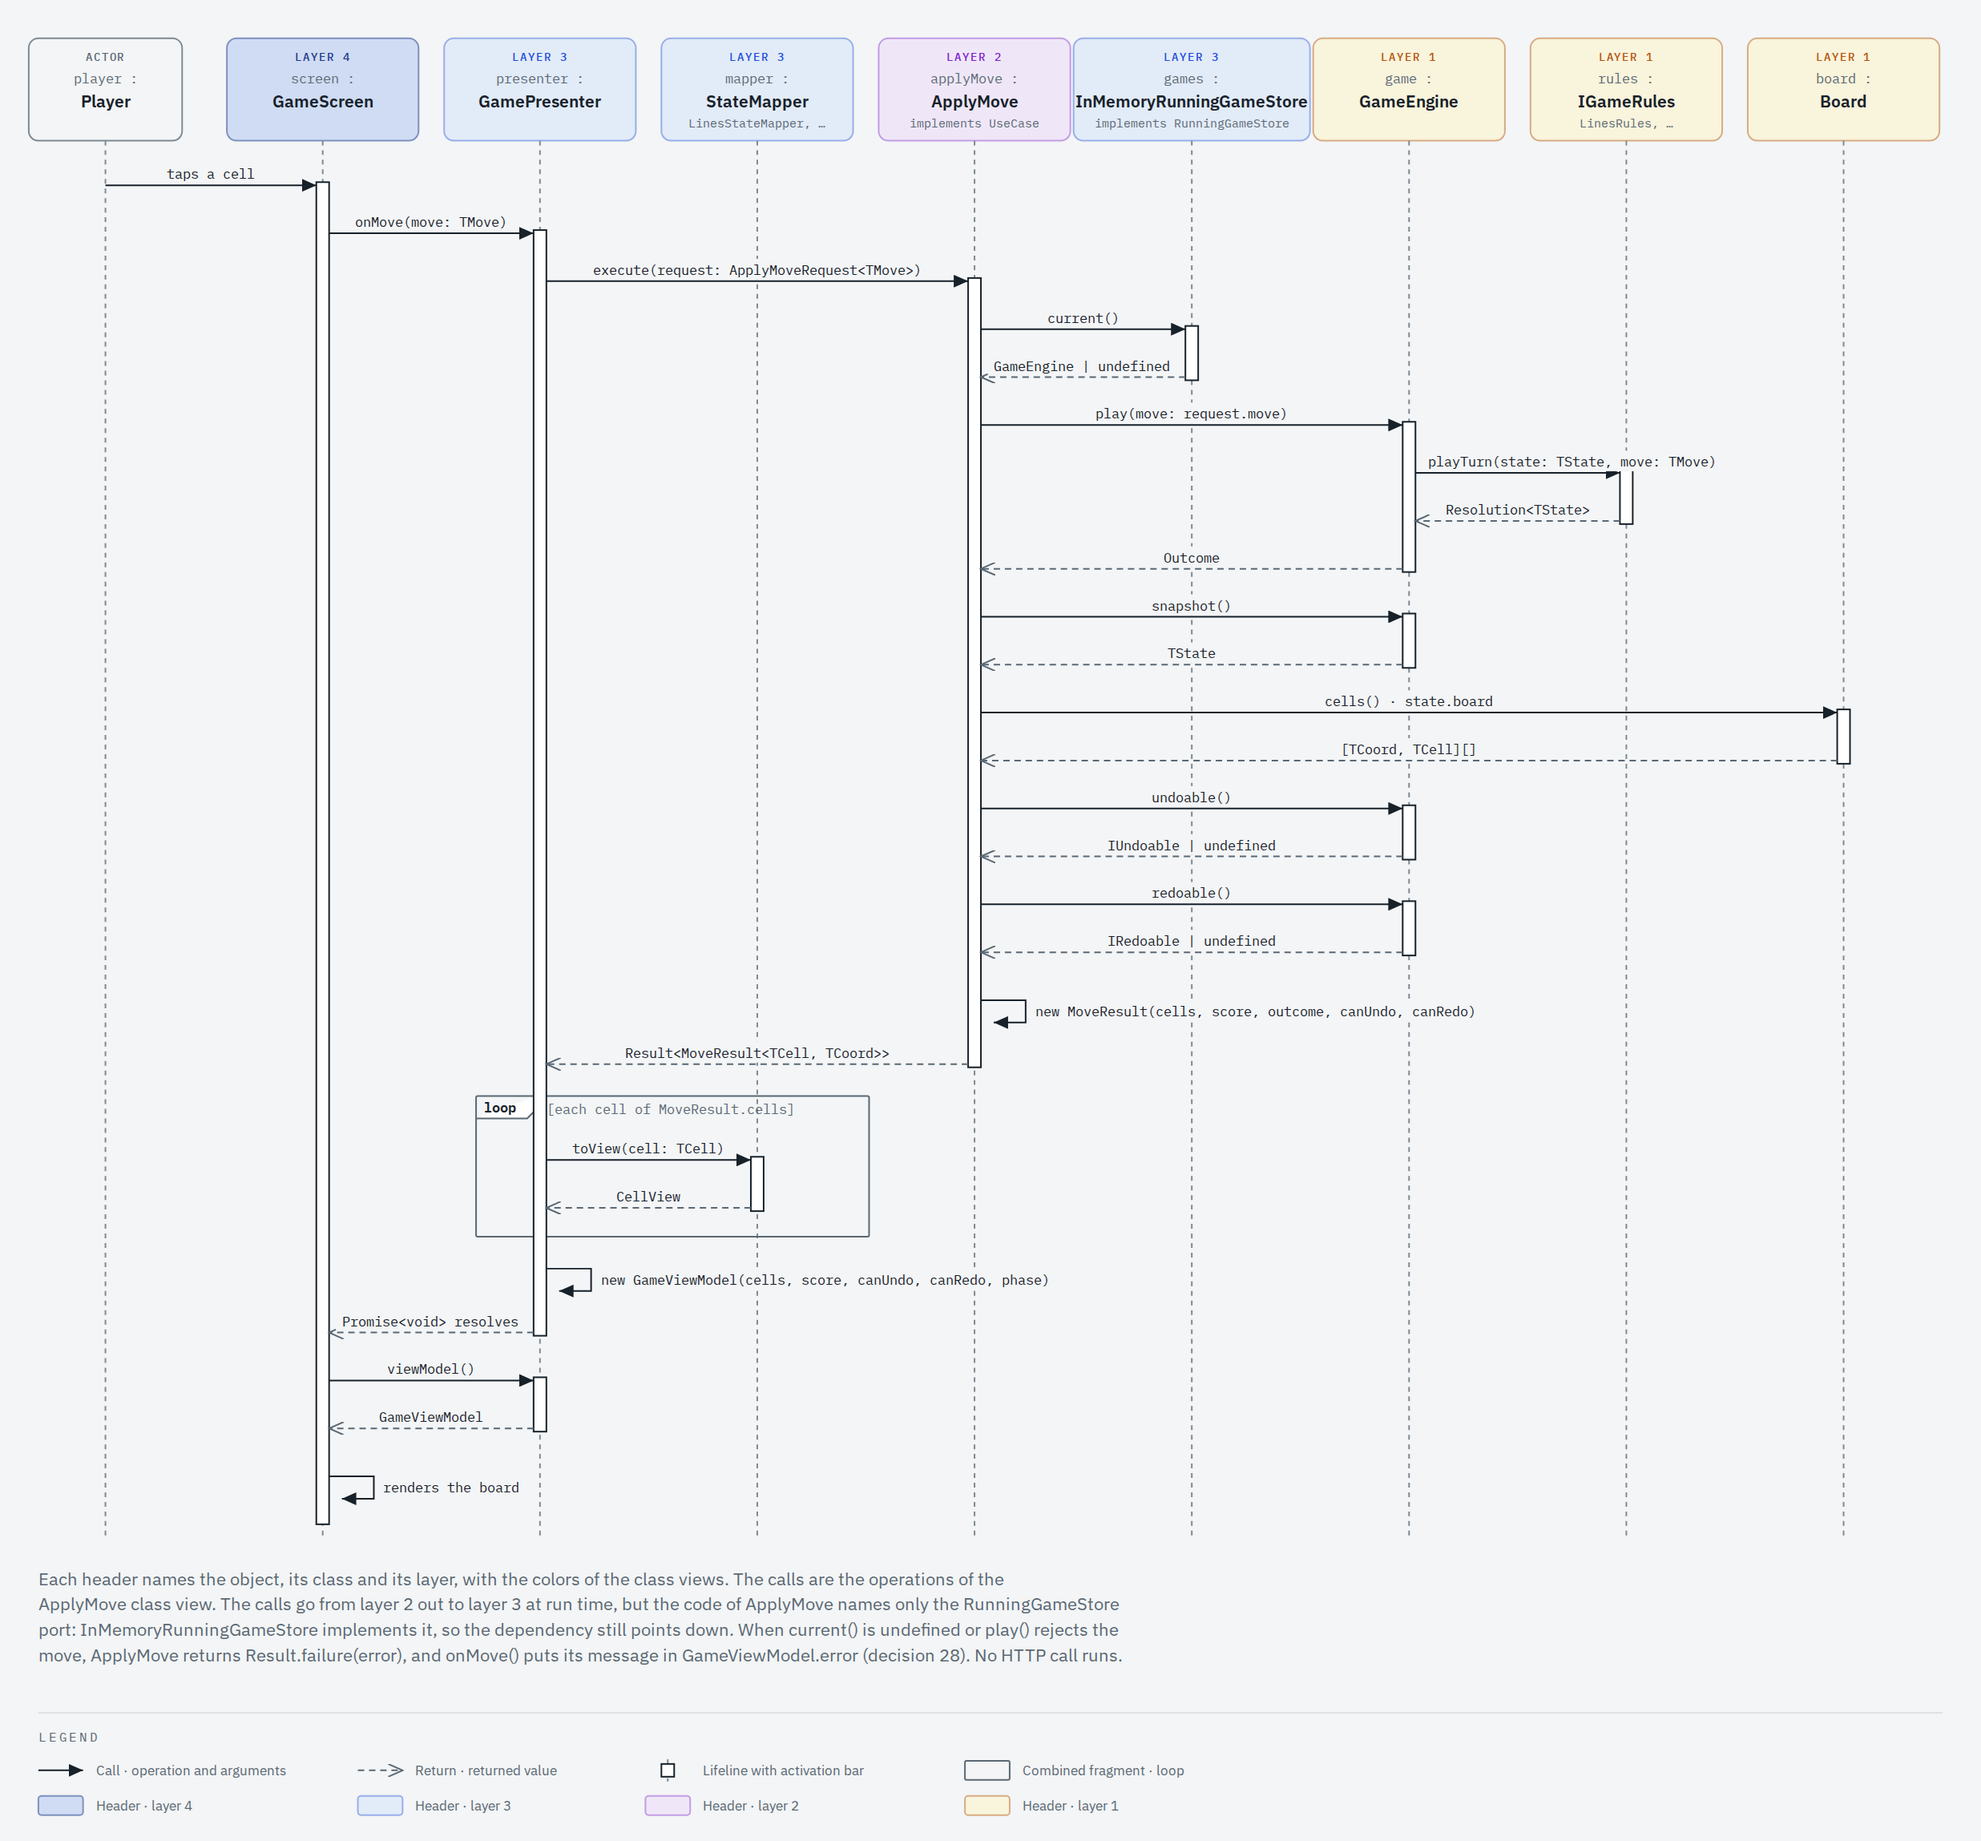
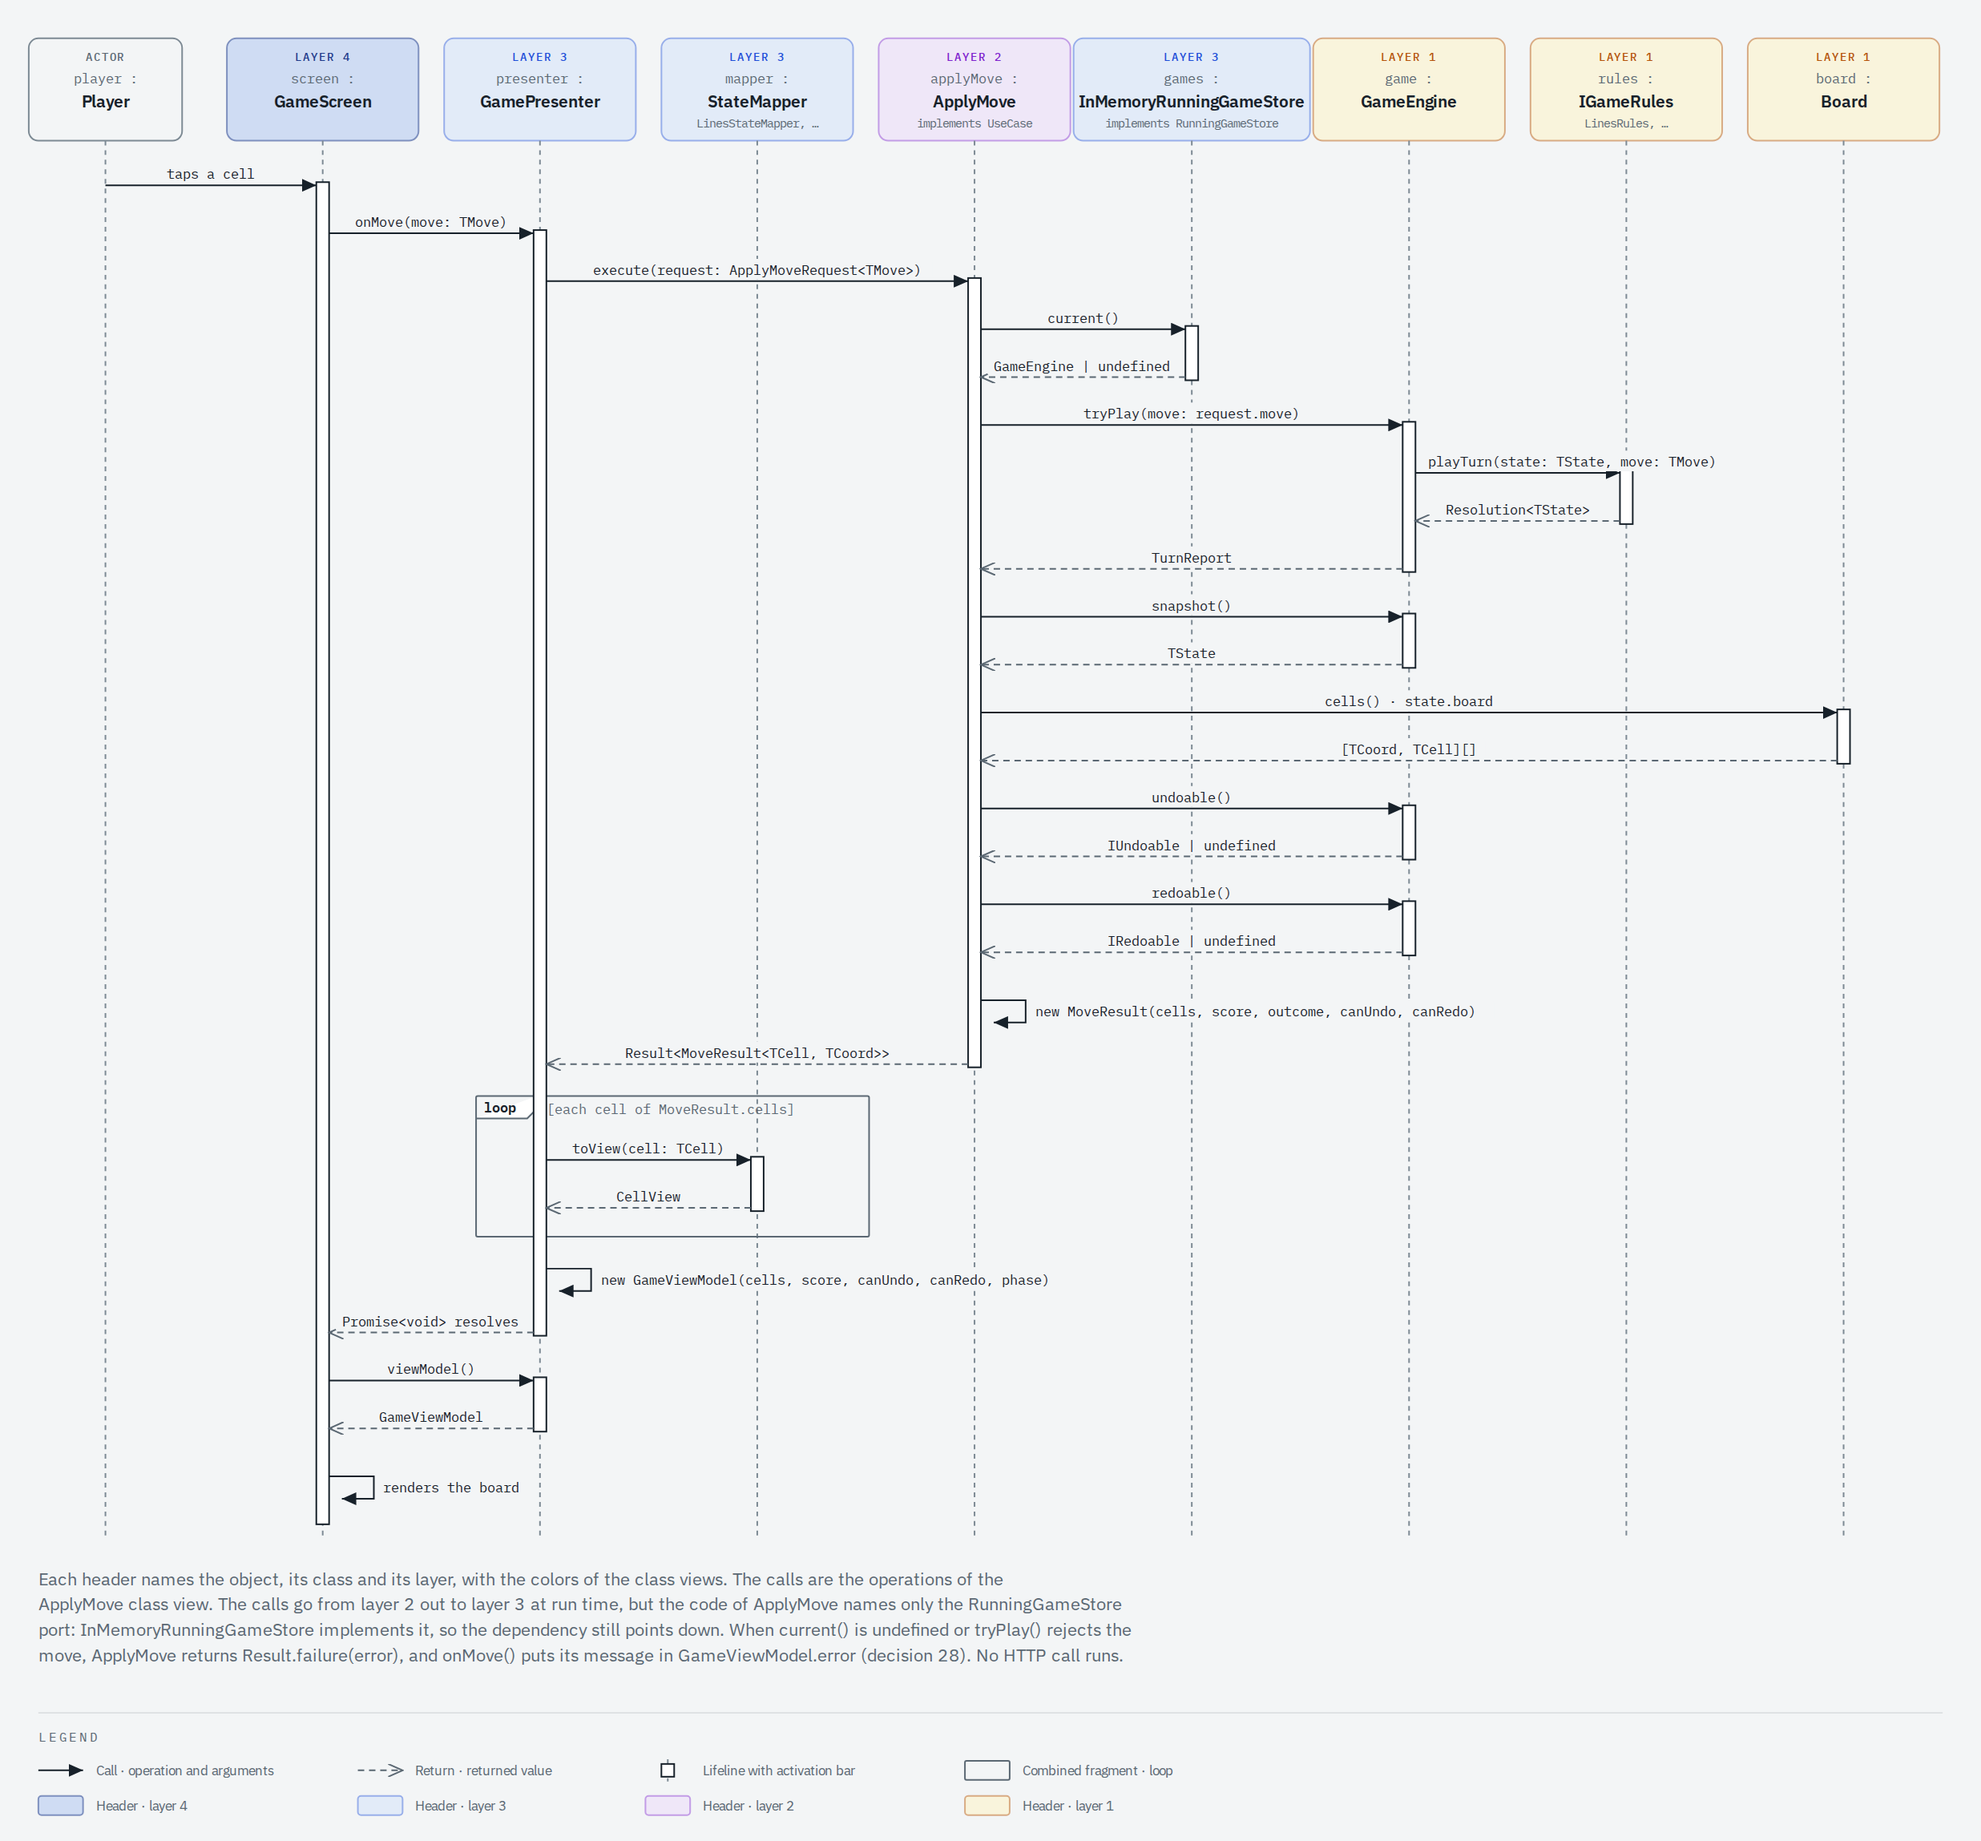
docs(architecture): show tryPlay() in the ApplyMove views
ApplyMove calls GameEngine.tryPlay(), not play(). The uc-2-game and
flow-1-apply-move class views and the seq-1-apply-move sequence view now
say so in labels, messages, comments, notes, captions and the GameEngine
member list; the sequence reply is TurnReport. The flows.md alt text says
the same, and the three PNG images are exported again.

Closes #139

diff --git a/docs/architecture/classes/views/flow-1-apply-move.html b/docs/architecture/classes/views/flow-1-apply-move.html
@@ -306,7 +306,7 @@
           stroke-width="1"
           marker-end="url(#flowmove-open)"
         />
-        <!-- ApplyMove calls GameEngine.play() and snapshot(): use, down from layer 2 to layer 1 -->
+        <!-- ApplyMove calls GameEngine.tryPlay() and snapshot(): use, down from layer 2 to layer 1 -->
         <path
           d="M600 820 V872 Q600 880 608 880 H692 Q700 880 700 888 V896"
           fill="none"
@@ -391,7 +391,7 @@
         >
           BUILDS
         </text>
-        <rect x="602" y="822" width="41.6" height="12" rx="2" fill="#efe7f8" />
+        <rect x="602" y="822" width="58.4" height="12" rx="2" fill="#efe7f8" />
         <text
           x="606"
           y="831"
@@ -401,7 +401,7 @@
           text-anchor="start"
           letter-spacing="0.06em"
         >
-          PLAY()
+          TRYPLAY()
         </text>
         <rect x="318" y="822" width="47.2" height="12" rx="2" fill="#efe7f8" />
         <text
@@ -1044,7 +1044,7 @@
           font-size="9"
           font-family="'IBM Plex Mono', monospace"
         >
-          + play(move: TMove): Outcome
+          + tryPlay(move: TMove): TurnReport
         </text>
         <text
           x="696"
@@ -1343,7 +1343,7 @@
           font-size="11"
           font-family="'IBM Plex Sans', sans-serif"
         >
-          GameEngine from RunningGameStore, calls play() and snapshot(), and copies the cells of
+          GameEngine from RunningGameStore, calls tryPlay() and snapshot(), and copies the cells of
           Board into a MoveResult (decision 29).
         </text>
         <text

diff --git a/docs/architecture/flows/views/seq-1-apply-move.html b/docs/architecture/flows/views/seq-1-apply-move.html
@@ -879,7 +879,7 @@
           stroke-width="1"
           marker-end="url(#seqmove-call)"
         />
-        <rect x="680.2" y="252" width="131.6" height="13" rx="2" fill="#f3f5f6" />
+        <rect x="672.45" y="252" width="147.1" height="13" rx="2" fill="#f3f5f6" />
         <text
           x="746"
           y="262"
@@ -888,7 +888,7 @@
           font-family="'IBM Plex Mono', monospace"
           text-anchor="middle"
         >
-          play(move: request.move)
+          tryPlay(move: request.move)
         </text>
         <!-- Message: game calls rules -->
         <line
@@ -944,7 +944,7 @@
           stroke-dasharray="4,3"
           marker-end="url(#seqmove-reply)"
         />
-        <rect x="723.975" y="342" width="44.05" height="13" rx="2" fill="#f3f5f6" />
+        <rect x="716.25" y="342" width="59.5" height="13" rx="2" fill="#f3f5f6" />
         <text
           x="746"
           y="352"
@@ -953,7 +953,7 @@
           font-family="'IBM Plex Mono', monospace"
           text-anchor="middle"
         >
-          Outcome
+          TurnReport
         </text>
         <!-- Message: apply calls game -->
         <line
@@ -1343,7 +1343,7 @@
           font-family="'IBM Plex Sans', sans-serif"
         >
           port: InMemoryRunningGameStore implements it, so the dependency still points down. When
-          current() is undefined or play() rejects the
+          current() is undefined or tryPlay() rejects the
         </text>
         <text
           x="24"

diff --git a/docs/architecture/classes/views/uc-2-game.html b/docs/architecture/classes/views/uc-2-game.html
@@ -270,7 +270,7 @@
           stroke-width="1"
           marker-end="url(#ucgame-open)"
         />
-        <!-- ApplyMove calls GameEngine.play(): use -->
+        <!-- ApplyMove calls GameEngine.tryPlay(): use -->
         <path
           d="M688 812 V900 Q688 908 680 908 H424"
           fill="none"
@@ -300,7 +300,7 @@
         >
           STORES
         </text>
-        <rect x="516" y="890" width="40" height="12" rx="2" fill="#f9f4dc" />
+        <rect x="506" y="890" width="60" height="12" rx="2" fill="#f9f4dc" />
         <text
           x="536"
           y="899"
@@ -310,7 +310,7 @@
           text-anchor="middle"
           letter-spacing="0.06em"
         >
-          PLAY()
+          TRYPLAY()
         </text>
 
         <!-- Role names and multiplicities at the part end -->
@@ -867,7 +867,7 @@
           font-family="'IBM Plex Sans', sans-serif"
         >
           StartGame never names a variant: the composition root injects the factory of the chosen
-          game. ApplyMove calls GameEngine.play(),
+          game. ApplyMove calls GameEngine.tryPlay(),
         </text>
         <text
           x="24"

diff --git a/CHANGELOG.md b/CHANGELOG.md
@@ -41,6 +41,7 @@ Each sprint of [`docs/ROADMAP.md`](docs/ROADMAP.md) closes with a version sectio
 
 - `sortStars()` checks its move count ([#137](https://github.com/Hexablock-Suite/hexablock-app/issues/137), gap G110.1). Every comparison with `NaN` is false, so `moves: NaN` won every Sort star. The check of `fitStars()` moves to `checkMoveCount()` in `src/domain/engine/move-count.ts`, and both star functions call it: a move count that is not a safe integer of 0 or more throws `RangeError("A move count needs a whole number of 0 or more, not <moves>.")`. The thresholds stay unchecked here: that check belongs to the level builders (#49). D22 in `docs/REQUIREMENTS.md`, decision 36 of `docs/architecture/classes.md` and the README say the same.
 - `caughtError()` never throws ([#138](https://github.com/Hexablock-Suite/hexablock-app/issues/138)). `String()` throws a `TypeError` for a thrown value without a prototype, such as `Object.create(null)`, or with a `toString` that throws, so the use case error kept that `TypeError` as its cause. Such a value now gets the fixed message «The thrown value has no text.», and `UseCaseError.cause` is the thrown value. Every other message stays the same. Decision 28 of `docs/architecture/classes.md` says the same.
+- The class views `uc-2-game` and `flow-1-apply-move` and the sequence view `seq-1-apply-move` show that `ApplyMove` calls `GameEngine.tryPlay()`, not `play()` ([#139](https://github.com/Hexablock-Suite/hexablock-app/issues/139)): the arrow labels, the comments and the captions, in the flow view the `GameEngine` member `+ tryPlay(move: TMove): TurnReport`, and in the sequence view the message, its `TurnReport` reply and the note. The alt text of the sequence image in `docs/architecture/flows.md` says the same. The three PNG images are exported again.
 - Hexa Lines counts a full line once when the topology walks it from its other end ([#134](https://github.com/Hexablock-Suite/hexablock-app/issues/134), gap G107.6). `GridTopology.line()` gives the cells of a line in order, but it does not say at which end the walk starts. `fullLines()` in `LinesRules` named a line by its axis and the key of its first cell, so a walk from the other end found the same full row again: a combo of 2 and a score of 41 for one row, not 1 and 11. Now the axis and the sorted topology keys of the cells name a line, so the same line from either end counts once. The engine contract does not change. A new case in `test/domain/variants/hexa-lines/lines-rules.test.ts` plays one full row on a square double that walks some lines from the far end.
 
 ## [0.1.0] - 2026-11-06

diff --git a/AI_USAGE.md b/AI_USAGE.md
@@ -78,6 +78,7 @@ TODO: add one entry per task: date, task, tool, prompt summary, what was kept an
 | 2026-11-06 | #136: pin the twice-declared mock path in the rules-suite gate                   | Claude Code | Claude Code with Claude Opus 5.5 wrote a gate meta-test that declares a mock path `const` twice and checked that it fails when the `null` branch of the gate is removed (keep the last value or the first); a human reviews the PR                                                                                                                                                                                                               | Pending team review   |
 | 2026-11-06 | #137: `sortStars` checks its move count                                          | Claude Code | Claude Code with Claude Opus 5.5 moved the move count check of `fitStars` to `checkMoveCount()` in the engine and called it from `sortStars`, and updated D22; the new rule test was seen failing first; a human reviews the PR                                                                                                                                                                                                                  | Pending team review   |
 | 2026-11-06 | #138: `caughtError` keeps the thrown value as the cause                          | Claude Code | Claude Code with Claude Opus 5.5 made `caughtError()` give a fixed message when the text of a thrown value cannot be built, and keep that value as the cause; the new rule test was seen failing first; a human reviews the PR                                                                                                                                                                                                                   | Pending team review   |
+| 2026-11-06 | #139: `tryPlay()` in the ApplyMove class views                                   | Claude Code | Claude Code with Claude Opus 5.5 changed `play()` to `tryPlay()` in two class views, the ApplyMove sequence view and its alt text, and exported the three PNG images again with a headless browser; a render of the old class views matched their old images pixel for pixel, and the old sequence image differed only in glyph spacing; it looked at each changed area; a human reviews the PR                                                  | Pending team review   |
 
 ## Critical Evaluation
 

diff --git a/docs/architecture/flows.md b/docs/architecture/flows.md
@@ -21,7 +21,7 @@ View 3.2 of [classes.md](classes.md) shows `ApplyMove` with layers 2 and 1 only,
 
 ### Sequence diagram
 
-![ApplyMove sequence: GameScreen calls onMove() on GamePresenter, which calls execute() on ApplyMove; ApplyMove takes the GameEngine from InMemoryRunningGameStore, calls play(), snapshot(), cells(), undoable() and redoable(), and returns a Result with a MoveResult; GamePresenter maps each cell with StateMapper and builds GameViewModel](flows/views/seq-1-apply-move.png)
+![ApplyMove sequence: GameScreen calls onMove() on GamePresenter, which calls execute() on ApplyMove; ApplyMove takes the GameEngine from InMemoryRunningGameStore, calls tryPlay(), snapshot(), cells(), undoable() and redoable(), and returns a Result with a MoveResult; GamePresenter maps each cell with StateMapper and builds GameViewModel](flows/views/seq-1-apply-move.png)
 
 ## Use case 2: save progress
 
